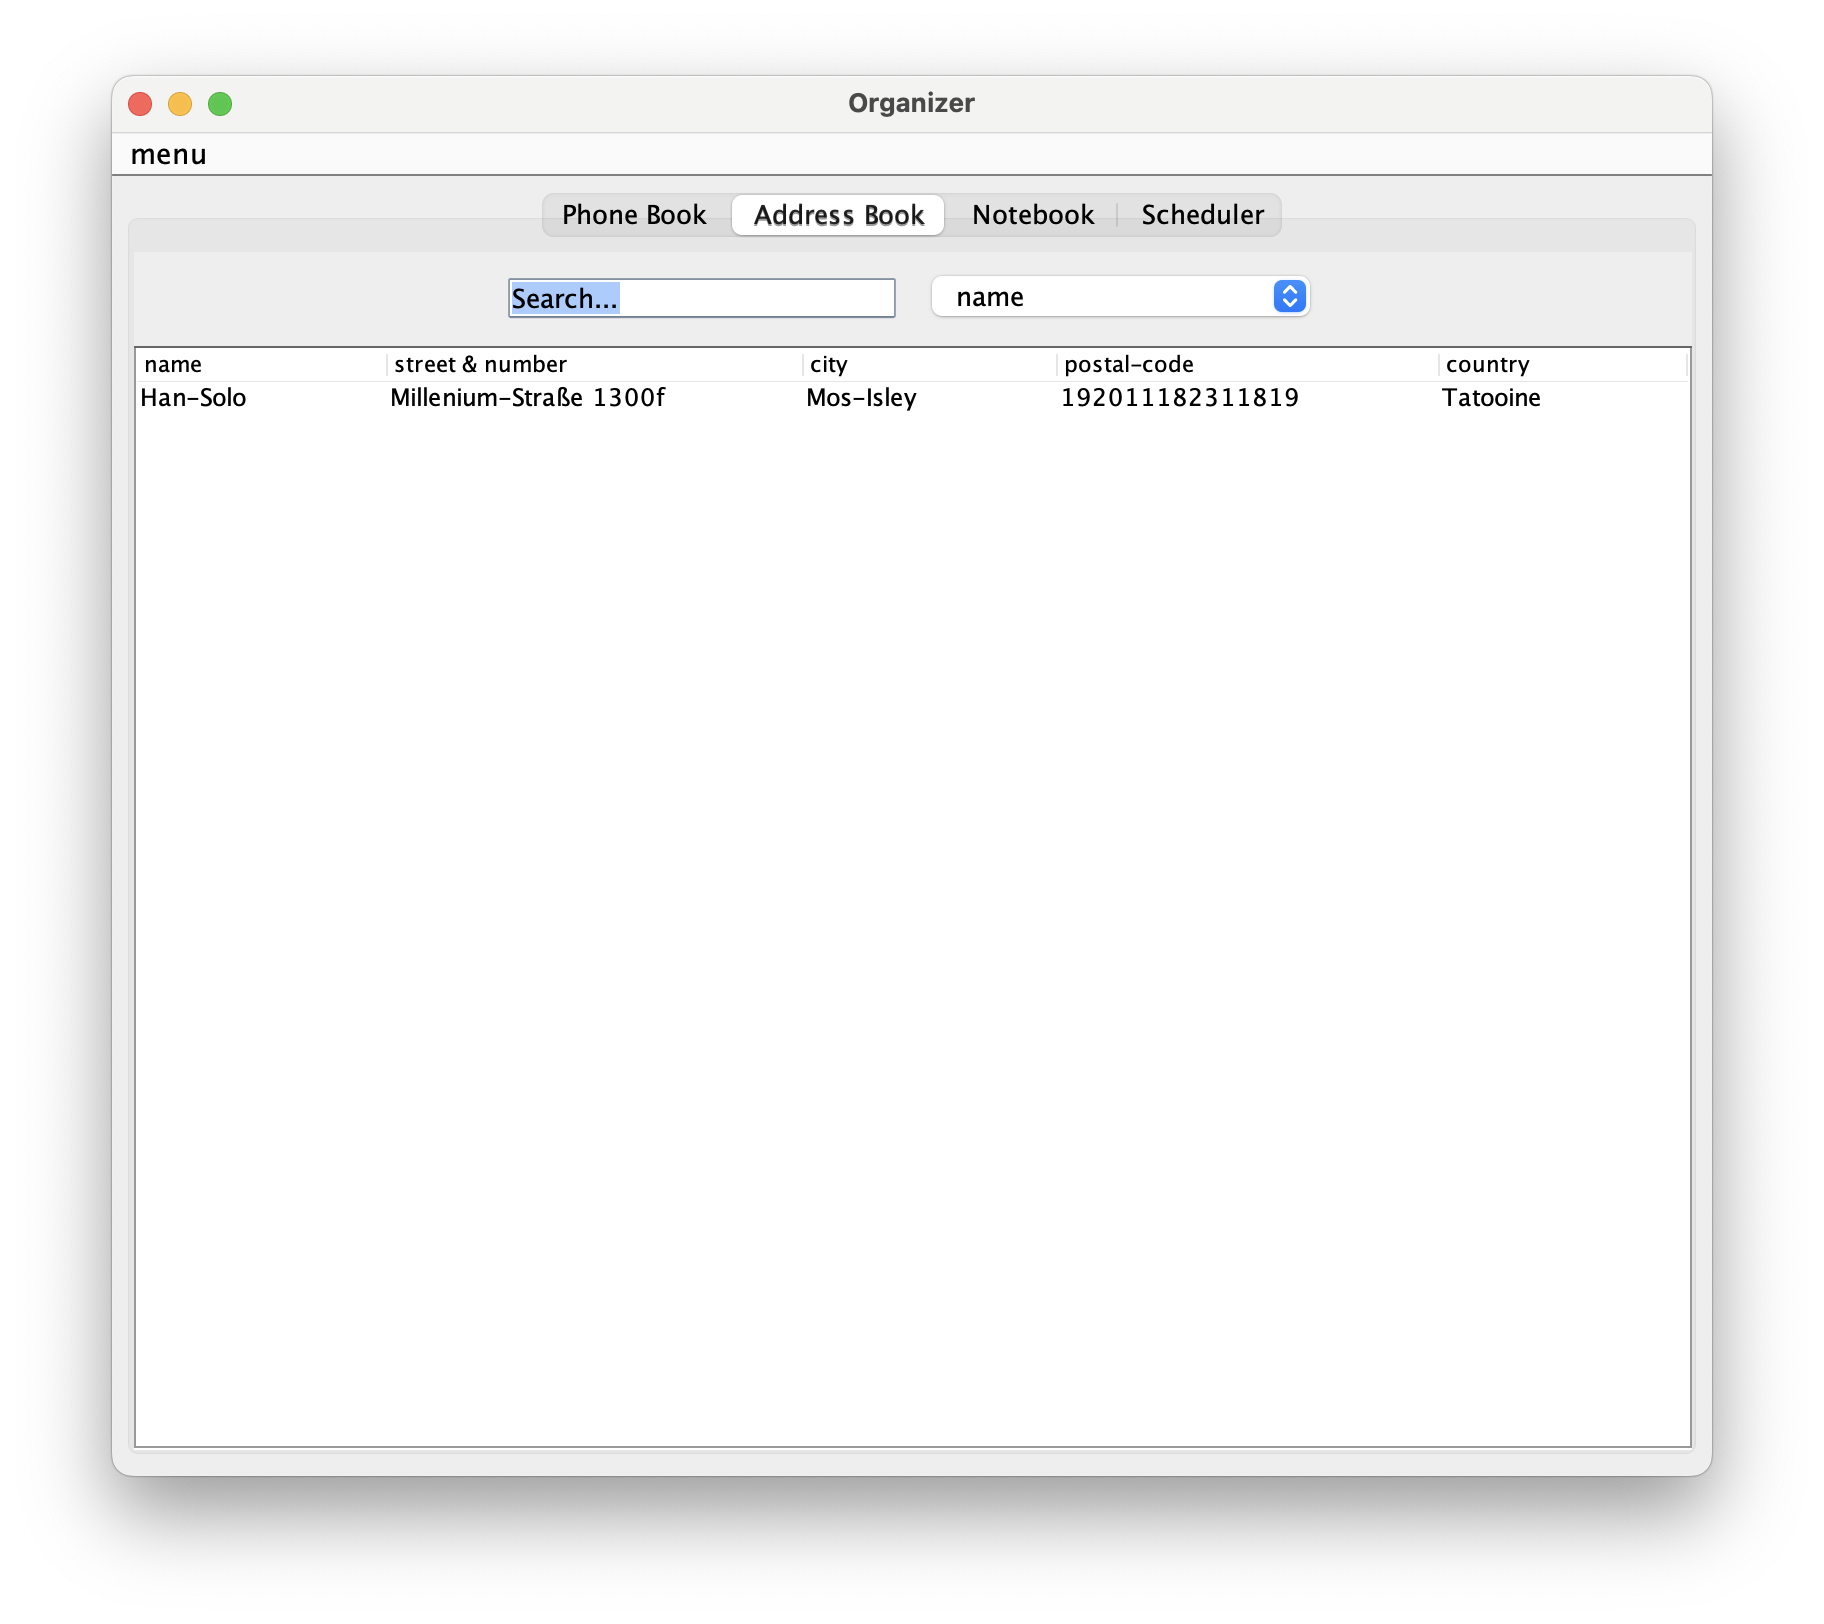
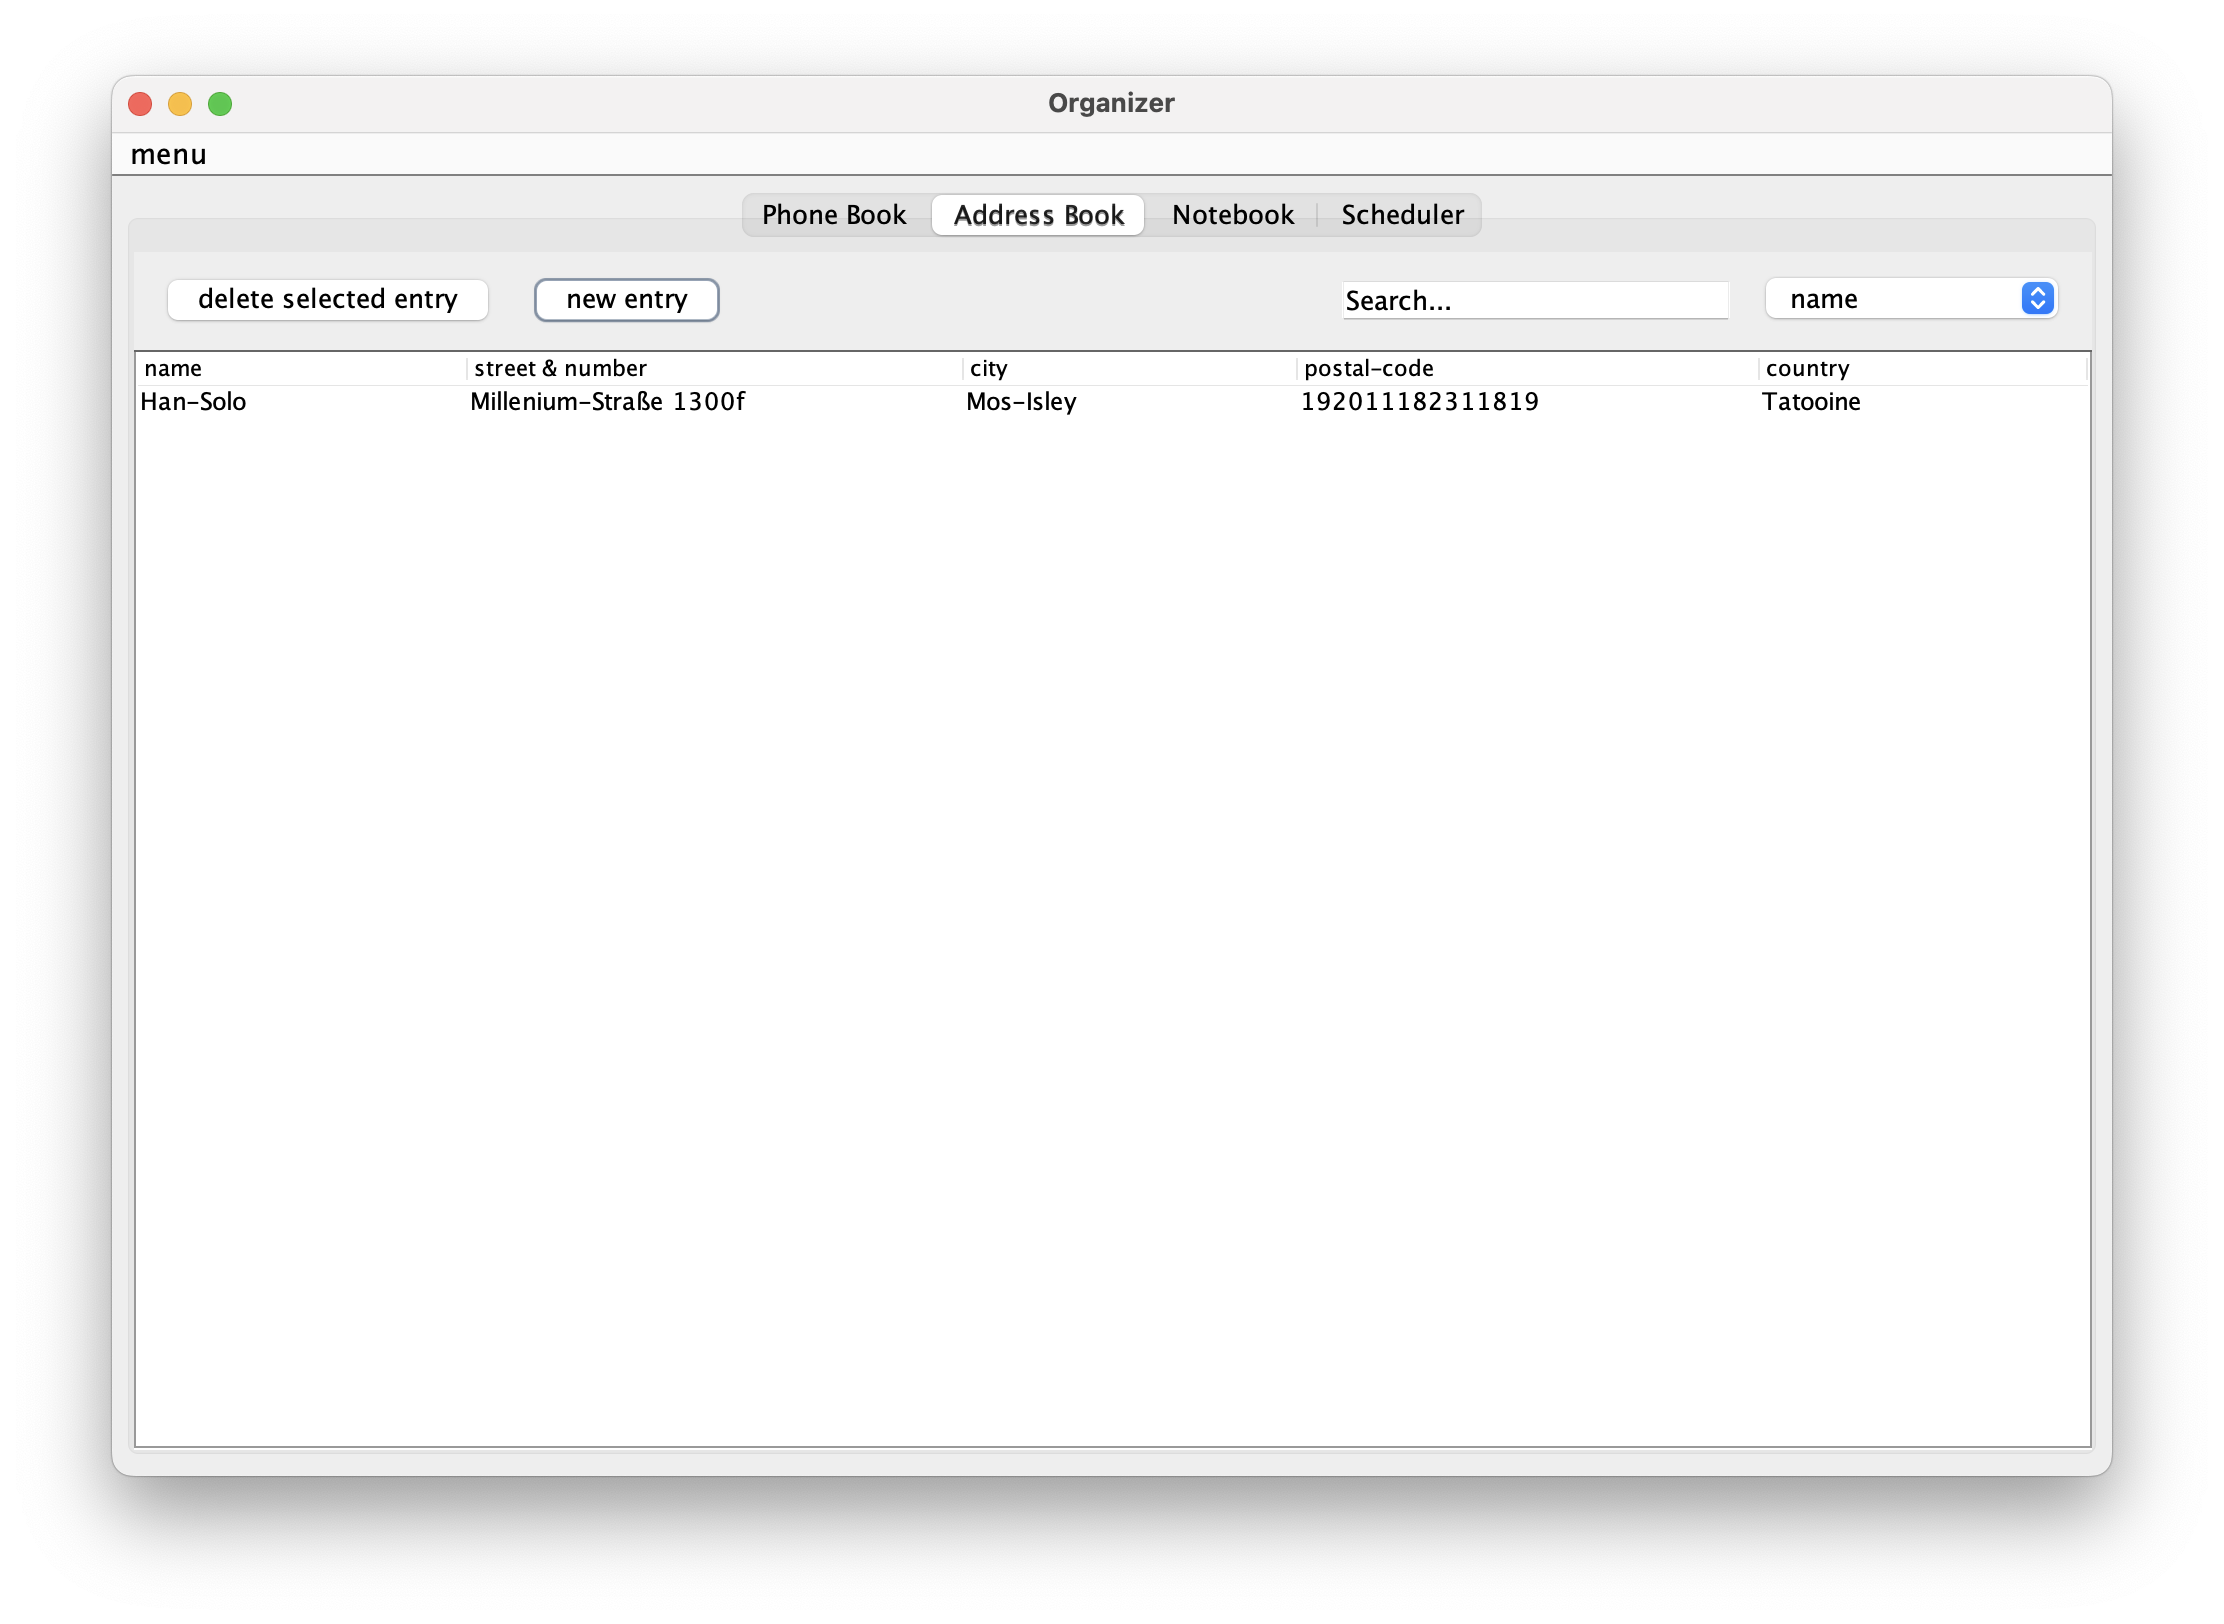
README updated

diff --git a/README.md b/README.md
@@ -1,48 +1,33 @@
 # Organizer-App_Java-swing
 
-The Organizer-Application consists of 4 subprograms:  
+The Organizer-Application consists of 4 subprograms:
 
-| **Phone-Book**                                         | **Address-Book**                                           |
-|--------------------------------------------------------|------------------------------------------------------------|
-| ![Phone-Book_Frame.png](Images%2FPhone-Book_Frame.png) | ![Address-Book_Frame.png](Images%2FAddress-Book_Frame.png) |
-
-| **Note-Book**                                        | **Scheduler (WIP)**                                  |
-|------------------------------------------------------|------------------------------------------------------|
-| ![Note-Book_Frame.png](Images%2FNote-Book_Frame.png) | ![Scheduler_Frame.png](Images%2FScheduler_Frame.png) |
-
-The Application as a whole is one JFrame with multiple Tabs.
-
-## Address-Book & Phone-Book
-Booth are realized with a JTable inside a JScrollPanel. Since booth applications
-are using the same Layout and functions, a class `ScrollTable` is implemented
-which consists of the JTable inside the JScrollPanel, a search-bar implemented
-via JTextField and a JComboBox.
-
-Booth applications read from a text-file inside the `Files`folder.
-Each row in this text files corresponds to one row of the table. 
-Each entry of one row is separated by a comma (except for names).
-e.g.: `Mia Schneider, 8904879`
-
-### searching
-This is implemented in a way, that the table will actualize itself as soon as
-the user inputs something inside the search bar.
-
-The JComboBox is used to specify which column will be searched!
-
-The nested class `searchBarList` inside `ScrollTable` is used to react to inputs
-made to the search-bar. As soon as a letter or number is inputted, the listener
-will call `reactToSearchBar` which is a composition of the function `actualizeTable`
-and `searchTable`.  
-`actualizeTable` will draw the table again, based on the inputted ArrayList 
-(each entry is one row inside the table).  
-`searchTable` reads the pattern given to the search-bar and find the matching
-rows (for the selected column).
-
-### Update existing entries
-By simply selecting a cell inside the table and write to it, the table will be
-updated. This will also lead to an immediately save and is handled via the
-`TableListener` as nested class inside `ScrollTable` by calling the save-function
-of ÀddressBook`or `PhoneBook`respectively.
-
-### adding / deleting
-WIP
+<table>
+    <tr>
+        <td><p style="text-align: center"><strong>Phone-Book</strong></p></td>
+        <td><p style="text-align: center"><strong>Address-Book</strong></p></td>
+    </tr>
+    <tr>
+        <td><img src="Images/Phone-Book_Frame.png"></td>
+        <td><img src="Images/Address-Book_Frame.png"></td>
+    </tr>
+    <tr>
+        <td><img src="Images/new-Phone-Entry_Dialog.png"></td>
+        <td><img src="Images/new-address-entry_Dialog.png"></td>
+    </tr>
+    <tr>
+        <td><p style="text-align: center"><strong>Note-Book</strong></p></td>
+        <td><p style="text-align: center"><strong>Scheduler</strong></p></td>
+    </tr>
+    <tr>
+        <td><img src="Images/Note-Book_Frame.png"></td>
+        <td><img src="Images/Scheduler_Frame.png"></td>
+    </tr>
+    <tr>
+        <td><img src="Images/saved_Dialog.png"></td>
+        <td rowspan="2"><img src="Images/Appointment_Dialog.png"></td>
+    </tr>
+    <tr>
+        <td> <img src="Images/deletion-confirmation_Dialog.png"> </td>
+    </tr>
+</table>
